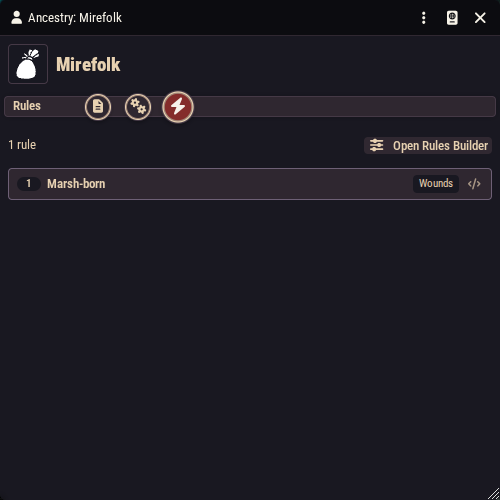
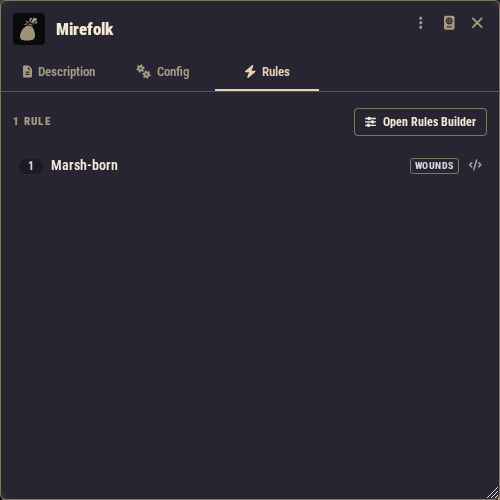
docs(item-sheets): pictures of the item windows in the new design, switches in place of check boxes

diff --git a/docs/documentation/homebrew/activations.md b/docs/documentation/homebrew/activations.md
@@ -15,9 +15,9 @@ The **Activation** tab appears on objects, spells, features, and monster feature
 
 ## The Core sub-tab
 
-- **Output item description on activation**: when ticked, the item's description text is printed on the chat card.
+- **Output item description on activation**: when on, the item's description text is printed on the chat card.
 - **Activation Cost** is a number plus a unit: **Action**, **Minute**, **Hour**, **None**, **Special**, or **Turn**. The number field only appears for actions, minutes, and hours. Choosing **Special** reveals a free-text details field.
-- **Is Reaction** marks the activation as a reaction and reveals a **Reaction Trigger** text field ("when an enemy leaves your reach…"). A reaction always has the **Action** unit. The number is the action cost: **1** for a usual reaction, **0** for a free reaction. When you tick **Is Reaction** on a cost of **None**, the cost changes to **0 Action**, a free reaction. When you tick it on a **Minute**, **Hour**, **Special** or **Turn** cost, the cost changes to **1 Action**. On a reaction, **None** changes the cost to **0 Action**, and another unit that is not **Action** clears **Is Reaction**. When you clear **Is Reaction**, the cost stays as it is.
+- **Is Reaction** marks the activation as a reaction and reveals a **Reaction Trigger** text field ("when an enemy leaves your reach…"). A reaction always has the **Action** unit. The number is the action cost: **1** for a usual reaction, **0** for a free reaction. When you turn on **Is Reaction** on a cost of **None**, the cost changes to **0 Action**, a free reaction. When you turn it on for a **Minute**, **Hour**, **Special** or **Turn** cost, the cost changes to **1 Action**. On a reaction, **None** changes the cost to **0 Action**, and another unit that is not **Action** clears **Is Reaction**. When you turn off **Is Reaction**, the cost stays as it is.
 - **Duration**: a number plus a unit (**Action**, **Minute**, **Hour**, **None**, **Round**, **Turn**, **Special**), with a details field for special durations.
 
 ::: info Monster features are simpler
@@ -26,7 +26,7 @@ Monster feature sheets hide the Activation Cost section. A monster's action econ
 
 ## The Targets sub-tab
 
-- **AoE targeting (can't miss or crit)**: tick this for area effects. A template configuration appears where you pick a shape (circle, cone, emanation, line, or square) and its dimensions. Attacks resolved through a template share one roll across everyone caught in it, so they can neither miss nor critically hit.
+- **AoE targeting (can't miss or crit)**: turn this on for area effects. A template configuration appears where you pick a shape (circle, cone, emanation, line, or square) and its dimensions. Attacks resolved through a template share one roll across everyone caught in it, so they can neither miss nor critically hit.
 - **Target Count**: how many targets the item expects (hidden when AoE targeting is on).
 - **Target Restrictions**: free text shown to the user, such as "creatures that can hear you".
 
@@ -40,14 +40,14 @@ Effects are built as a tree. Click the **+** button next to **Effects** to add a
 
 ### Damage
 
-A damage entry has a **Roll Formula** (dice plus references like `@strength` or `@key`), a **Damage Type** (fire, slashing, and so on), and a **Target Disposition** dropdown (Any / Friendly / Neutral / Hostile / Secret) that tells the chat card who the roll is meant for. **Any** means no preference: the Apply Damage button gets no hint about the targets. Picking Any is still a choice, so the entry keeps its own box on the chat card even when nothing else shows its roll. Leave the dropdown alone and a damage entry with no outcome child under On Hit shows on a miss only. Three checkboxes refine it: **Ignore Armor**, **Only Damage Hostile Actors**, and **Roll Damage From Card**.
+A damage entry has a **Roll Formula** (dice plus references like `@strength` or `@key`), a **Damage Type** (fire, slashing, and so on), and a **Target Disposition** dropdown (Any / Friendly / Neutral / Hostile / Secret) that tells the chat card who the roll is meant for. **Any** means no preference: the Apply Damage button gets no hint about the targets. Picking Any is still a choice, so the entry keeps its own box on the chat card even when nothing else shows its roll. Leave the dropdown alone and a damage entry with no outcome child under On Hit shows on a miss only. Three switches refine it: **Ignore Armor**, **Only Damage Hostile Actors**, and **Roll Damage From Card**.
 
 **Roll Damage From Card** is for damage that lands on a later trigger than the activation itself, such as a trap that springs on the next creature to step adjacent. The card posts with the damage unrolled and shows a **Roll Damage** button in its place; the message author and the GM can press it, and the result then behaves like any other damage packet. It appears on top-level damage entries only, because damage nested under an outcome already waits on that outcome. Can Miss and Can Crit still apply to the deferred roll.
 
-The *first* damage entry in the list is special: it is the attack roll. It alone shows the **Can Miss** and **Can Crit** checkboxes, and its result decides whether the whole card reads as a hit, a miss, or a critical hit.
+The *first* damage entry in the list is special: it is the attack roll. It alone shows the **Can Miss** and **Can Crit** switches, and its result decides whether the whole card reads as a hit, a miss, or a critical hit.
 
 ::: info When crits are suppressed
-Even with Can Crit ticked, some attacks never crit: template (AoE) attacks, attacks made by minions and flunkies, and attacks with a weapon whose type the wielder is not proficient with.
+Even with Can Crit on, some attacks never crit: template (AoE) attacks, attacks made by minions and flunkies, and attacks with a weapon whose type the wielder is not proficient with.
 :::
 
 Under a damage entry you get three outcome buckets: **On Critical Hit**, **On Hit**, and **On Miss**. Each bucket can hold child effects: more damage, a damage outcome, healing, a condition, a saving throw, or a note.
@@ -74,7 +74,7 @@ A condition entry picks one status condition from the system's list (Frightened,
 
 ### Move
 
-A move for free or Forced Movement for a creature. The card watches that creature's next drag: the drag counts as that movement, and the ruler shows how far it can go. There is nothing to click, and nothing stops a longer drag. Choose the **Kind** (Move for free or Forced Movement), **Who Moves** (the creature that uses the feature, or the card's targets), and the **Distance** as a formula against the data of the feature's user: `@abilities.strength.mod` is their Strength modifier, `2` a fixed number, and `@speed` the walk speed of the creature that moves (`@speed / 2` half of it). The distance is worked out once, when the card is posted. **Distance by size** can override the formula for a size category (a push that moves Small creatures twice as far, for example). Tick **Ignore difficult terrain** for a move for free that says so; Forced Movement always ignores it. **Show the distance as "up to"** sets how the card words the distance. It starts ticked for a move for free ("Can move up to 6 spaces for free.") and clear for Forced Movement ("Pushed 2 spaces away from Grug."), as the rulebooks word them. Tick it for a push or pull whose text says "up to"; clear it for a move for free of a set distance. It changes only the words on the card. The card shows the **Direction**: away from or toward the feature's user, or in any direction for Forced Movement. It leaves the direction out when only the user moves. A move for free that ignores difficult terrain says so. Nothing enforces the direction, and the rules give a push no particular shape. Placed under **On Hit**, **On Critical Hit** or **On Miss**, the move is on the card only when the card has that outcome; a critical hit is also a hit. The card does not record the saving throw of each target, so under **On Failed Save** or **On Passed Save** the card shows the distance for each target, but the drag is not watched. Move the token by hand when the save calls for it. With the Pushes, Pulls and Moves for Free automation toggle off, the card shows the distance as text and the token is dragged as usual. See [Running Combat](../gm/combat.md#forced-movement-and-moves-for-free).
+A move for free or Forced Movement for a creature. The card watches that creature's next drag: the drag counts as that movement, and the ruler shows how far it can go. There is nothing to click, and nothing stops a longer drag. Choose the **Kind** (Move for free or Forced Movement), **Who Moves** (the creature that uses the feature, or the card's targets), and the **Distance** as a formula against the data of the feature's user: `@abilities.strength.mod` is their Strength modifier, `2` a fixed number, and `@speed` the walk speed of the creature that moves (`@speed / 2` half of it). The distance is worked out once, when the card is posted. **Distance by size** can override the formula for a size category (a push that moves Small creatures twice as far, for example). Turn on **Ignore difficult terrain** for a move for free that says so; Forced Movement always ignores it. **Show the distance as "up to"** sets how the card words the distance. It starts on for a move for free ("Can move up to 6 spaces for free.") and off for Forced Movement ("Pushed 2 spaces away from Grug."), as the rulebooks word them. Turn it on for a push or pull whose text says "up to"; turn it off for a move for free of a set distance. It changes only the words on the card. The card shows the **Direction**: away from or toward the feature's user, or in any direction for Forced Movement. It leaves the direction out when only the user moves. A move for free that ignores difficult terrain says so. Nothing enforces the direction, and the rules give a push no particular shape. Placed under **On Hit**, **On Critical Hit** or **On Miss**, the move is on the card only when the card has that outcome; a critical hit is also a hit. The card does not record the saving throw of each target, so under **On Failed Save** or **On Passed Save** the card shows the distance for each target, but the drag is not watched. Move the token by hand when the save calls for it. With the Pushes, Pulls and Moves for Free automation toggle off, the card shows the distance as text and the token is dragged as usual. See [Running Combat](../gm/combat.md#forced-movement-and-moves-for-free).
 
 ### Pool
 
@@ -88,7 +88,7 @@ Pool entries only take effect once the activation is allowed to proceed, so an i
 
 1. Create an Object, set Object Type to **Weapon**, and pick your weapon properties.
 2. On **Activation → Core**, set the cost to 1 **Action**.
-3. On **Activation → Effects**, add a **Damage** entry: formula `1d4+@dexterity`, type **Piercing**, **Can Miss** and **Can Crit** ticked.
+3. On **Activation → Effects**, add a **Damage** entry: formula `1d4+@dexterity`, type **Piercing**, **Can Miss** and **Can Crit** on.
 4. Under that entry's **On Hit** bucket, click **+** and add a **Damage Outcome** of **Full Damage**. This is the weapon's own damage landing.
 5. In the same **On Hit** bucket, add a second **Damage** entry: formula `1d6`, type **Cold**.
 

diff --git a/docs/documentation/homebrew/items.md b/docs/documentation/homebrew/items.md
@@ -22,7 +22,7 @@ The item sheet opens with five tabs:
 - **Rules**: passive effects the item applies just by being carried and equipped. See [Rules Builder Basics](../rules-builder/index.md).
 - **Macro**: an advanced scripting slot; see [Macros](../gm/macros.md).
 
-![A freshly created Object item, with the five tab icons visible on the sheet edge](/images/documentation/fresh-object-item.png)
+![A freshly created Object item, with the five tabs visible under the name](/images/documentation/fresh-object-item.png)
 
 ## Step 2: Choose the kind of object
 
@@ -53,7 +53,7 @@ Below the object type you will find fields shared by every kind:
 
 ## Containers
 
-A **Container** section sits below the shared fields. Tick **This Object Is A Container** and the
+A **Container** section sits below the shared fields. Turn on **This Object Is A Container** and the
 object can hold others: boxes, chests, pouches, backpacks, bags, quivers, saddlebags. Players drag
 inventory items onto its row on the character sheet and the contents appear nested under it.
 
@@ -106,7 +106,7 @@ magical bags are the kind of 5th edition item people most often bring across:
 | Homebrew bag of holding or portable hole | Ignore slot cost | A **Capacity** if you want the bag to have a stated limit |
 | Homebrew handy haversack | Ignore slot cost | **Capacity** for the compartment total |
 | Bandolier that only holds weapons | Normal slot cost | **Allowed Object Types** set to Weapon |
-| Harness worn over armor | Whatever you decide it grants | **Only Apply While Equipped** ticked |
+| Harness worn over armor | Whatever you decide it grants | **Only Apply While Equipped** on |
 
 A homebrew bag of holding is the shortest worked example: leave the bag itself at one inventory
 slot, set **Stored Object Slot Cost** to **Ignore slot cost**, and everything dropped into it stops
@@ -116,7 +116,7 @@ one slot.
 Containers cannot be nested inside one another, so an object that is already stored cannot be
 turned into a container until it is taken out. Deleting a container that still holds something
 asks for confirmation first, then leaves its contents in the inventory, back at their own slot
-cost. Unticking **This Object Is A Container** does the same without asking: the contents come
+cost. Turning off **This Object Is A Container** does the same without asking: the contents come
 back out rather than being left pointing at a bag that no longer holds anything.
 
 Two more consequences worth knowing:
@@ -133,10 +133,10 @@ Two more consequences worth knowing:
 The compendium's **Large Sack** ships as a container on **Normal slot cost**. The rulebook says
 nothing about a sack reducing what you carry, so it organises the sheet without changing the
 numbers. Copies already in a world are not changed; drag a fresh one out of the compendium, or
-tick **This Object Is A Container** on the copy you have.
+turn on **This Object Is A Container** on the copy you have.
 
 **Quiver & Ammo** deliberately does not ship as a container. The rulebook says "In most games,
-there's no need to track ammo. If you have a quiver, you have enough arrows." Tick **This Object
+there's no need to track ammo. If you have a quiver, you have enough arrows." Turn on **This Object
 Is A Container** on your own copy if your table has chosen to count arrows.
 
 ## Step 3: Weapon properties
@@ -145,10 +145,10 @@ With **Weapon** selected, a **Weapon Configuration** section appears with a row 
 
 - **Range** adds a range configuration section.
 - **Reach** adds a reach configuration section.
-- **2-Handed** adds a **Strength Requirement** field, plus a checkbox for "Strength Requirement Overrides 2-Handed" (for weapons a strong character can wield in one hand).
+- **2-Handed** adds a **Strength Requirement** field, plus a switch for "Strength Requirement Overrides 2-Handed" (for weapons a strong character can wield in one hand).
 - **Thrown** adds a **Thrown Range** field.
 
-For the Flaming Longsword, toggle **2-Handed**, set the Strength Requirement to 2, and tick the override box, matching the ordinary longsword from the compendium.
+For the Flaming Longsword, toggle **2-Handed**, set the Strength Requirement to 2, and turn on the override, matching the ordinary longsword from the compendium.
 
 ![The Config tab of a weapon with the Weapon Configuration section expanded, 2-Handed selected, and the Strength Requirement fields visible](/images/documentation/weapon-config-tab.png)
 
@@ -160,7 +160,7 @@ The short version for our sword:
 
 1. On **Activation → Core**, set the Activation Cost to 1 **Action**.
 2. On **Activation → Targets**, describe the targeting (target count, restrictions).
-3. On **Activation → Effects**, add a **Damage** effect: formula `1d8+@strength`, damage type **Slashing**, with **Can Miss** and **Can Crit** ticked.
+3. On **Activation → Effects**, add a **Damage** effect: formula `1d8+@strength`, damage type **Slashing**, with **Can Miss** and **Can Crit** on.
 4. Add a second **Damage** effect for the magic: formula `1d6`, damage type **Fire**.
 
 That second damage entry is the whole "flaming" part. When a player clicks the sword, the chat card shows both the slashing roll and the fire roll, each with its own apply button. The Activation tab has much more depth (nested on-hit effects, saving throws, conditions), and it is covered step by step on [Item Activations & Effects](activations.md).
@@ -231,7 +231,7 @@ The **Description** tab holds three separate texts:
 - **Unidentified**: shown on the item's chat card in place of the real description while the item is flagged as unidentified. The item also carries an "unidentified name" used the same way.
 - **Secret Notes**: GM-only notes.
 
-Whether the description is printed on the chat card at all is controlled by the "Output item description on activation" checkbox on the **Activation → Core** tab.
+Whether the description is printed on the chat card at all is controlled by the "Output item description on activation" switch on the **Activation → Core** tab.
 
 Descriptions support [inline roll buttons](enrichers.md), so you can embed clickable dice and condition labels directly in the text.
 

diff --git a/docs/documentation/homebrew/spells.md b/docs/documentation/homebrew/spells.md
@@ -28,7 +28,7 @@ Spell sheets have no Rules tab. Passive bonuses belong on features and objects, 
 
 On the **Configuration** tab:
 
-- **Spell Properties**: toggle any of **Concentration**, **Range**, **Reach**, **Secret Spell**, and **Utility**. Selecting Range or Reach reveals the matching distance configuration. Marking a spell as **Utility** hides the tier and scaling sections entirely, because utility spells sit outside the tier system. Ticking **Concentration** is all it takes to make casting the spell apply the [Concentration condition](../playing/conditions.md#concentration) to the caster. Don't add a condition effect for it as well.
+- **Spell Properties**: toggle any of **Concentration**, **Range**, **Reach**, **Secret Spell**, and **Utility**. Selecting Range or Reach reveals the matching distance configuration. Marking a spell as **Utility** hides the tier and scaling sections entirely, because utility spells sit outside the tier system. Selecting **Concentration** is all it takes to make casting the spell apply the [Concentration condition](../playing/conditions.md#concentration) to the caster. Don't add a condition effect for it as well.
 - **Spell Tier**: **Cantrip** or **Tier 1** through **Tier 9**.
 - **Spell School**: **Fire**, **Ice**, **Lightning**, **Necrotic**, **Radiant**, or **Wind**, each with its icon.
 
@@ -49,7 +49,7 @@ The Configuration tab has a small code button in its top corner that swaps the f
 The spell's effect is a standard activation. For Emberlance:
 
 1. On **Activation → Core**, set the cost to 1 **Action**.
-2. On **Activation → Effects**, add a **Damage** entry: formula `2d8`, damage type **Fire**, with **Can Miss** and **Can Crit** ticked, and a **Damage Outcome** of Full Damage under **On Hit**.
+2. On **Activation → Effects**, add a **Damage** entry: formula `2d8`, damage type **Fire**, with **Can Miss** and **Can Crit** on, and a **Damage Outcome** of Full Damage under **On Hit**.
 
 Anything an item activation can do, a spell can do: saving throws with half-damage outcomes, conditions, templates for area spells, notes. All of it is covered on [Item Activations & Effects](activations.md). Configure it there, and it just works when the spell is cast.
 

diff --git a/docs/documentation/homebrew/character-options.md b/docs/documentation/homebrew/character-options.md
@@ -22,7 +22,7 @@ The simplest full homebrew loop is an ancestry with one trait. Build **Mirefolk*
 
 1. In the **Items** sidebar, click **Create Item**, name it *Mirefolk*, and pick the **Ancestry** type.
 2. On the **Description** tab, write the trait the way players should read it: "*Marsh-born.* +1 max Wounds."
-3. On the **Config** tab you will find an **Identifier** field and an **Exotic Ancestry** checkbox. Tick the box if this ancestry belongs with the rare options rather than the common ones.
+3. On the **Config** tab you will find an **Identifier** field and an **Exotic Ancestry** switch. Turn it on if this ancestry belongs with the rare options rather than the common ones.
 4. On the **Rules** tab, click **Open Rules Builder** and add a **Maximum Wounds** rule: label it `Marsh-born`, value `1`.
 5. Drop the ancestry onto a test character and watch their maximum wounds go up by one. Drop a different ancestry on the same character and Mirefolk removes itself.
 
